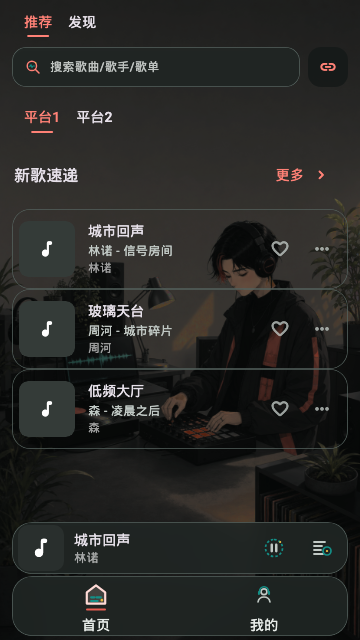
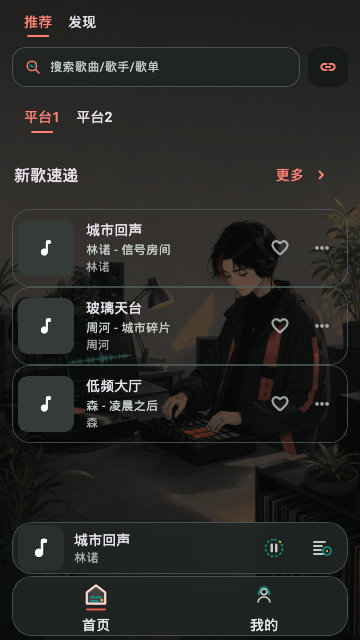
fix(ui): 修复歌曲列表布局抖动

diff --git a/test/features/online/presentation/pages/online_search_result_list_test.dart b/test/features/online/presentation/pages/online_search_result_list_test.dart
@@ -208,6 +208,20 @@ void main() {
       find.byKey(const ValueKey('search-lyric-snippet-song-1|qq-1')),
     );
     final snippetFontSize = snippet.style?.fontSize;
+    final title = find.text('测试歌曲');
+    final artist = find.text('测试歌手 - 测试专辑');
+    final collapsedTitleTop = tester.getTopLeft(title).dy;
+    final collapsedArtistTop = tester.getTopLeft(artist).dy;
+    final likeButton = find.ancestor(
+      of: find.byIcon(Icons.favorite_border_rounded),
+      matching: find.byType(IconButton),
+    );
+    final moreButton = find.ancestor(
+      of: find.byIcon(Icons.more_horiz_rounded),
+      matching: find.byType(IconButton),
+    );
+    final collapsedLikeTop = tester.getTopLeft(likeButton).dy;
+    final collapsedMoreTop = tester.getTopLeft(moreButton).dy;
     expect(snippet.softWrap, isFalse);
     expect(snippet.maxLines, 1);
     expect(snippet.overflow, TextOverflow.ellipsis);
@@ -234,12 +248,16 @@ void main() {
     final collapsedCoverTop = tester.getTopLeft(cover).dy;
 
     await tester.tap(find.byKey(snippetKey));
-    await tester.pump();
+    await tester.pump(const Duration(milliseconds: 200));
     expect(find.byKey(fullLyricKey), findsOneWidget);
     expect(find.byKey(snippetKey), findsNothing);
     expect(tappedSong, isNull);
     expect(find.text('收起歌词'), findsOneWidget);
     expect(tester.getTopLeft(cover).dy, collapsedCoverTop);
+    expect(tester.getTopLeft(title).dy, collapsedTitleTop);
+    expect(tester.getTopLeft(artist).dy, collapsedArtistTop);
+    expect(tester.getTopLeft(likeButton).dy, collapsedLikeTop);
+    expect(tester.getTopLeft(moreButton).dy, collapsedMoreTop);
     final fullLyricText = tester.widget<Text>(
       find.descendant(
         of: find.byKey(fullLyricKey),
@@ -269,19 +287,31 @@ void main() {
     );
 
     await tester.tap(find.byKey(fullLyricKey));
-    await tester.pump();
+    await tester.pump(const Duration(milliseconds: 200));
     expect(find.byKey(fullLyricKey), findsNothing);
     expect(find.byKey(snippetKey), findsOneWidget);
     expect(tappedSong, isNull);
+    expect(tester.getTopLeft(title).dy, collapsedTitleTop);
+    expect(tester.getTopLeft(artist).dy, collapsedArtistTop);
+    expect(tester.getTopLeft(likeButton).dy, collapsedLikeTop);
+    expect(tester.getTopLeft(moreButton).dy, collapsedMoreTop);
 
     await tester.tap(toggle);
-    await tester.pump();
+    await tester.pump(const Duration(milliseconds: 200));
     expect(find.byKey(fullLyricKey), findsOneWidget);
+    expect(tester.getTopLeft(title).dy, collapsedTitleTop);
+    expect(tester.getTopLeft(artist).dy, collapsedArtistTop);
+    expect(tester.getTopLeft(likeButton).dy, collapsedLikeTop);
+    expect(tester.getTopLeft(moreButton).dy, collapsedMoreTop);
 
     await tester.tap(toggle);
-    await tester.pump();
+    await tester.pump(const Duration(milliseconds: 200));
     expect(find.byKey(fullLyricKey), findsNothing);
     expect(find.byKey(snippetKey), findsOneWidget);
+    expect(tester.getTopLeft(title).dy, collapsedTitleTop);
+    expect(tester.getTopLeft(artist).dy, collapsedArtistTop);
+    expect(tester.getTopLeft(likeButton).dy, collapsedLikeTop);
+    expect(tester.getTopLeft(moreButton).dy, collapsedMoreTop);
   });
 
   testWidgets('expanded version invokes action with the nested version song', (

diff --git a/lib/shared/widgets/song_list_item.dart b/lib/shared/widgets/song_list_item.dart
@@ -154,9 +154,9 @@ class SongListItem extends StatelessWidget {
         ? theme.colorScheme.primary.withValues(alpha: isCurrent ? 0.07 : 0.05)
         : Colors.transparent;
     final songRow = Row(
-      crossAxisAlignment: contentAfterSubtitle == null
-          ? CrossAxisAlignment.center
-          : CrossAxisAlignment.start,
+      crossAxisAlignment: alignCoverToTop
+          ? CrossAxisAlignment.start
+          : CrossAxisAlignment.center,
       children: <Widget>[
         Expanded(
           child: InkWell(
@@ -190,7 +190,10 @@ class SongListItem extends StatelessWidget {
                       ),
                       child: Column(
                         mainAxisSize: MainAxisSize.min,
-                        mainAxisAlignment: MainAxisAlignment.center,
+                        // 展开歌词/附加内容时把标题区固定在顶部，避免内容高度变化时上下漂移。
+                        mainAxisAlignment: alignCoverToTop
+                            ? MainAxisAlignment.start
+                            : MainAxisAlignment.center,
                         crossAxisAlignment: CrossAxisAlignment.stretch,
                         children: <Widget>[
                           _ListItemText(
@@ -631,22 +634,20 @@ class _SongCover extends StatelessWidget {
         ),
       );
     }
-    return Stack(
-      children: <Widget>[
-        AnimatedContainer(
-          duration: const Duration(milliseconds: 180),
-          padding: EdgeInsets.all(isCurrent ? 1.5 : 0),
-          decoration: BoxDecoration(
-            borderRadius: BorderRadius.circular(10),
-            border: Border.all(
-              color: isCurrent
-                  ? theme.colorScheme.primary.withValues(alpha: 0.35)
-                  : Colors.transparent,
-            ),
-          ),
-          child: child,
+    // 只改边框视觉，不改封面占位，避免当前播放态切换时列表项抖动。
+    return AnimatedContainer(
+      duration: const Duration(milliseconds: 180),
+      width: _coverSize,
+      height: _coverSize,
+      foregroundDecoration: BoxDecoration(
+        borderRadius: BorderRadius.circular(10),
+        border: Border.all(
+          color: isCurrent
+              ? theme.colorScheme.primary.withValues(alpha: 0.35)
+              : Colors.transparent,
         ),
-      ],
+      ),
+      child: child,
     );
   }
 }

diff --git a/test/shared/widgets/song_list_item_test.dart b/test/shared/widgets/song_list_item_test.dart
@@ -43,6 +43,28 @@ void main() {
       expect(find.text('Current'), findsOneWidget);
     });
 
+    testWidgets('isCurrent 切换不应改变标题和歌手位置', (tester) async {
+      await tester.pumpWidget(_wrap(SongListItem(data: basicData)));
+      final normalTitleTop = tester.getTopLeft(find.text('稻香')).dy;
+      final normalArtistTop = tester.getTopLeft(find.text('周杰伦')).dy;
+
+      await tester.pumpWidget(
+        _wrap(
+          SongListItem(
+            data: SongListItemData(
+              title: '稻香',
+              artistAlbumText: '周杰伦',
+              subtitleText: '',
+              isCurrent: true,
+            ),
+          ),
+        ),
+      );
+
+      expect(tester.getTopLeft(find.text('稻香')).dy, normalTitleTop);
+      expect(tester.getTopLeft(find.text('周杰伦')).dy, normalArtistTop);
+    });
+
     testWidgets('showActions 为 false 时不显示操作按钮', (tester) async {
       await tester.pumpWidget(
         _wrap(

diff --git a/test/app/theme/skin/starlit_melody_assets_test.dart b/test/app/theme/skin/starlit_melody_assets_test.dart
@@ -21,10 +21,10 @@ const _darkEvaluationHash =
[1 lines of base64/hex data omitted]
 const _lightPreviewPath = 'assets/skins/starlit_melody/preview_light.png';
 const _lightPreviewHash =
[2 lines of base64/hex data omitted]
 const _darkPreviewPath = 'assets/skins/starlit_melody/preview_dark.png';
 const _darkPreviewHash =
[2 lines of base64/hex data omitted]
 
 void main() {
   test('evaluation assets match their recorded provenance', () async {

diff --git a/test/app/theme/skin/classic_assets_test.dart b/test/app/theme/skin/classic_assets_test.dart
@@ -10,10 +10,10 @@ import 'package:he_music_flutter/app/theme/skins/classic_skin.dart';
 
 const _lightPreviewPath = 'assets/skins/classic/preview_light.png';
 const _lightPreviewHash =
[2 lines of base64/hex data omitted]
 const _darkPreviewPath = 'assets/skins/classic/preview_dark.png';
 const _darkPreviewHash =
[2 lines of base64/hex data omitted]
 
 void main() {
   test('classic previews match their recorded provenance', () async {

diff --git a/test/app/theme/skin/city_sound_creator_assets_test.dart b/test/app/theme/skin/city_sound_creator_assets_test.dart
@@ -31,12 +31,12 @@ const _dark = _WallpaperContract(
 
 const _lightPreview = _PreviewContract(
   path: 'assets/skins/city_sound_creator/preview_light.png',
[2 lines of base64/hex data omitted]
 );
 
 const _darkPreview = _PreviewContract(
   path: 'assets/skins/city_sound_creator/preview_dark.png',
[2 lines of base64/hex data omitted]
 );
 
 const _iconDirectory = 'assets/skins/city_sound_creator/icons';

diff --git a/assets/skins/city_sound_creator/LICENSES.md b/assets/skins/city_sound_creator/LICENSES.md
@@ -124,7 +124,7 @@ The replacement dark derivative was inspected at full frame and local detail on 
 - Generator: `make skin-previews`, which runs `flutter test --update-goldens test/app/theme/skin_preview_golden_test.dart`.
 - Render contract: actual `MaterialApp.router`, `AppTheme`, `AppSkinBackgroundLayer`, home route, recommend/discover tabs, recommend song list, mini player, bottom navigation, production wallpapers, and production SVG catalog at a fixed `360x640` logical-pixel viewport.
 - Data contract: deterministic Riverpod overrides provide fixed Chinese UI content; no image model redraws or synthesizes application text.
-- UI revision: regenerated on 2026-08-11 with compact MiniPlayer and bottom navigation heights; wallpaper, SVG, and Rive assets are unchanged.
+- UI revision: regenerated on 2026-08-26 after the shared song item layout adjustment; wallpaper, SVG, and Rive assets are unchanged.
 - Test fonts: Roboto Regular, Medium, and Bold plus a 14 KB Chinese glyph subset derived from Android Open Source Project's Droid Sans Fallback, all under Apache License 2.0. The files, subset glyph manifest, provenance, and license are retained under `test/assets/fonts/` and are not declared as runtime assets.
 - Material fallback icons: loaded from the Material Icons font already declared by Flutter's `uses-material-design` contract.
 - Technical inspection: both previews show the decoded production wallpaper, readable Chinese text, production SVGs, Material fallbacks, mini player, and navigation without blank regions or overlaps. The current revision uses a roughly `48%` white readability overlay in light mode; scrolling Items are transparent in both brightness modes and transparent surfaces do not draw shadows.
@@ -134,13 +134,13 @@ The replacement dark derivative was inspected at full frame and local detail on 
 
 - Path: `assets/skins/city_sound_creator/preview_light.png`.
 - Actual dimensions: `360x640`.
[2 lines of base64/hex data omitted]
 
 ### Dark real UI preview
 
 - Path: `assets/skins/city_sound_creator/preview_dark.png`.
 - Actual dimensions: `360x640`.
[2 lines of base64/hex data omitted]
 
 ## Rive ambient animation
 

diff --git a/assets/skins/starlit_melody/LICENSES.md b/assets/skins/starlit_melody/LICENSES.md
@@ -36,11 +36,11 @@ No generative enhancement, face repair, spatial crop, or composition change was 
 
 - Generation: real routed Flutter home scene through `make skin-previews`
 - Actual dimensions: `360x640` for both previews
-- UI revision: regenerated on 2026-08-11 with compact MiniPlayer and bottom navigation heights; wallpaper and theme-token assets are unchanged
+- UI revision: regenerated on 2026-08-26 after the shared song item layout adjustment; wallpaper and theme-token assets are unchanged
 - Light preview: `assets/skins/starlit_melody/preview_light.png`
[2 lines of base64/hex data omitted]
 - Dark preview: `assets/skins/starlit_melody/preview_dark.png`
[2 lines of base64/hex data omitted]
 - Light tokens: Ice Rail primary `#00677A`, Berry Signal secondary `#B72F5B`, Ink text `#17202A`, transparent scrolling content surface
 - Dark tokens: Ice Rail primary `#78D5E7`, blue-gray fixed surfaces, Mist text `#F0EDF5`, transparent scrolling content surface
 - Approval status: the light preview and current dark evaluation appearance were approved by the user on 2026-07-28; these files were regenerated from those same runtime tokens

diff --git a/assets/skins/classic/LICENSES.md b/assets/skins/classic/LICENSES.md
@@ -9,18 +9,18 @@ The classic skin has no external wallpaper or icon assets. This directory contai
 - Dark seed: `#34D399`
 - Generation: real routed Flutter home scene through `make skin-previews`
 - Actual dimensions: `360x640` for both previews
-- UI revision: regenerated on 2026-08-11 with compact MiniPlayer and bottom navigation heights; theme tokens and bundled assets are unchanged
+- UI revision: regenerated on 2026-08-26 after the shared song item layout adjustment; theme tokens and bundled assets are unchanged
 
 The classic skin still supports manual accent selection. These static previews represent the application default accent and must be regenerated if `AppConfigState.initial.themeAccent` changes.
 
 ## Light Preview
 
 - Path: `assets/skins/classic/preview_light.png`
[2 lines of base64/hex data omitted]
 - Actual dimensions: `360x640`
 
 ## Dark Preview
 
 - Path: `assets/skins/classic/preview_dark.png`
[2 lines of base64/hex data omitted]
 - Actual dimensions: `360x640`
